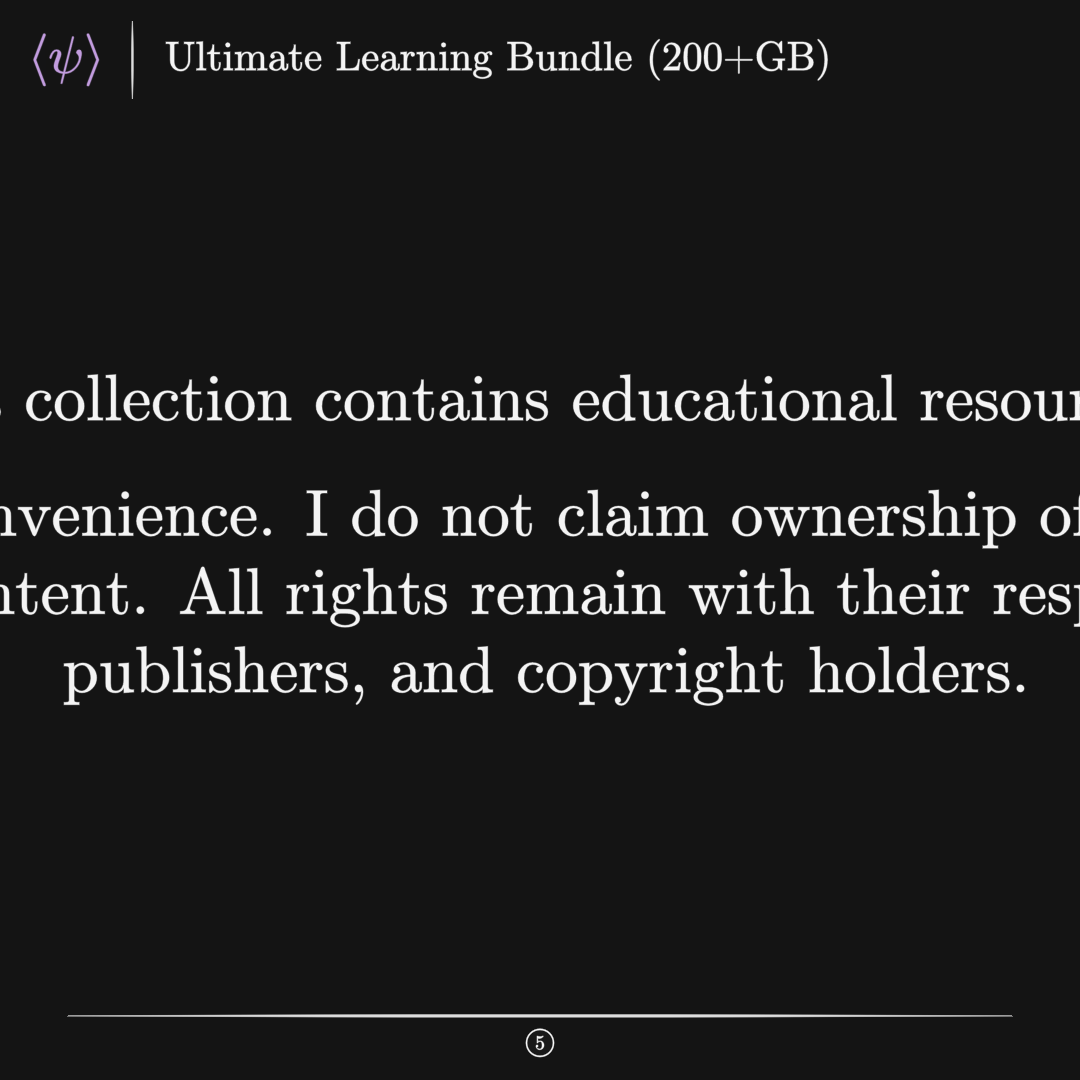
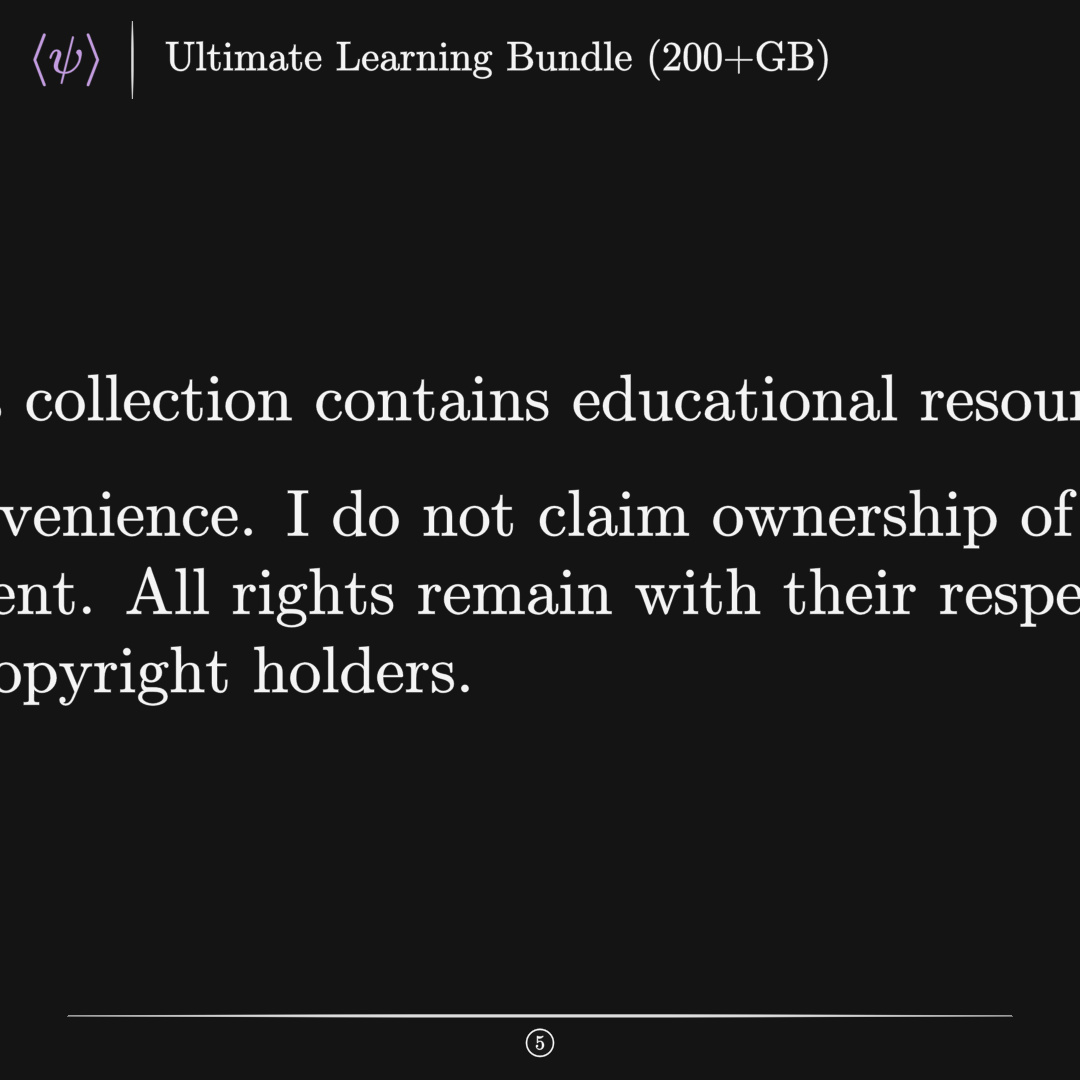
f

diff --git a/test.py b/test.py
@@ -231,6 +231,6 @@ class Dis(PaidTemplate):
             for convenience. I do not claim ownership of any third-party copyrighted\\
             content. All rights remain with their respective authors, publishers,\\
             and copyright holders.
-            """
+            """, alignment=R"\flushleft"
         )
         self.add(dis)

diff --git a/latex_cache/working.tex b/latex_cache/working.tex
@@ -26,7 +26,7 @@
 
 \begin{document}
 
-\centering
+\flushleft
 \textbf{Disclaimer}\
             \vspace{0.2cm}
             This collection contains educational resources gathered and organized\
